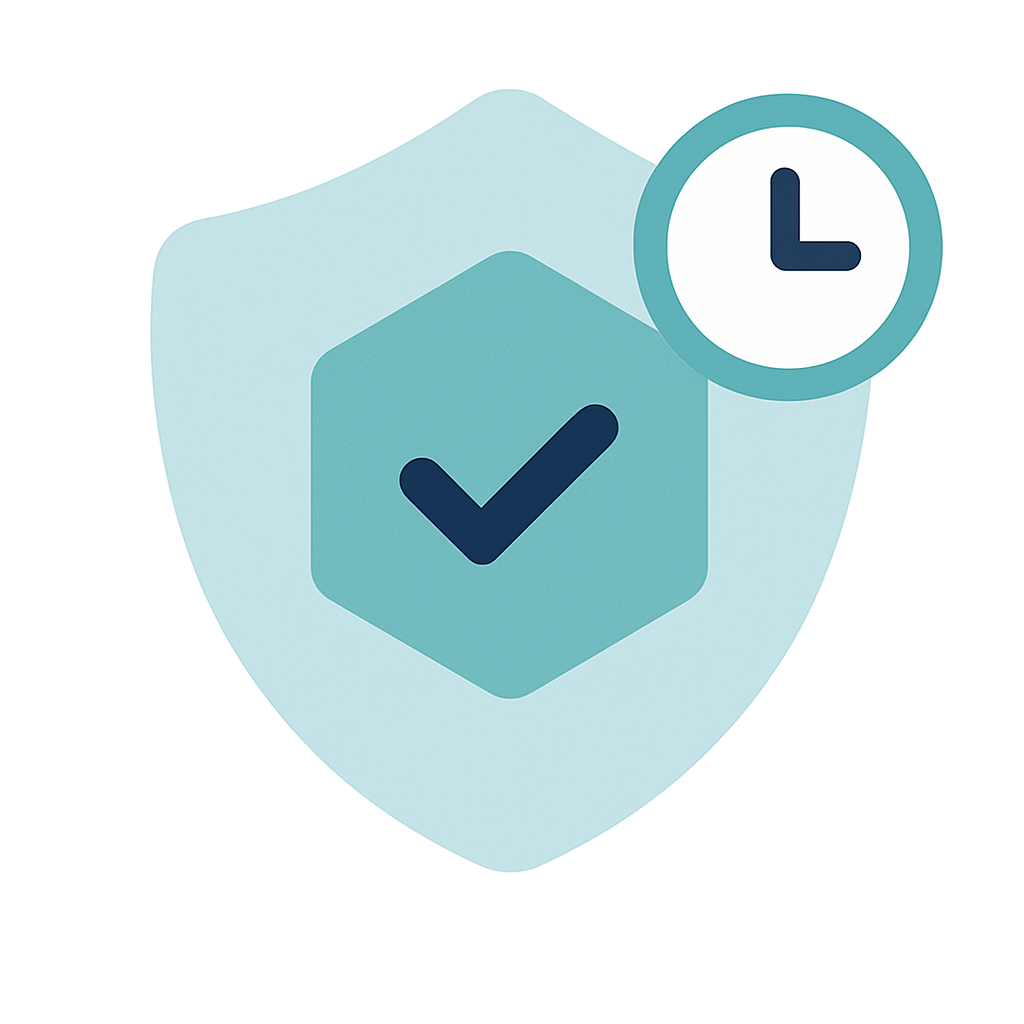
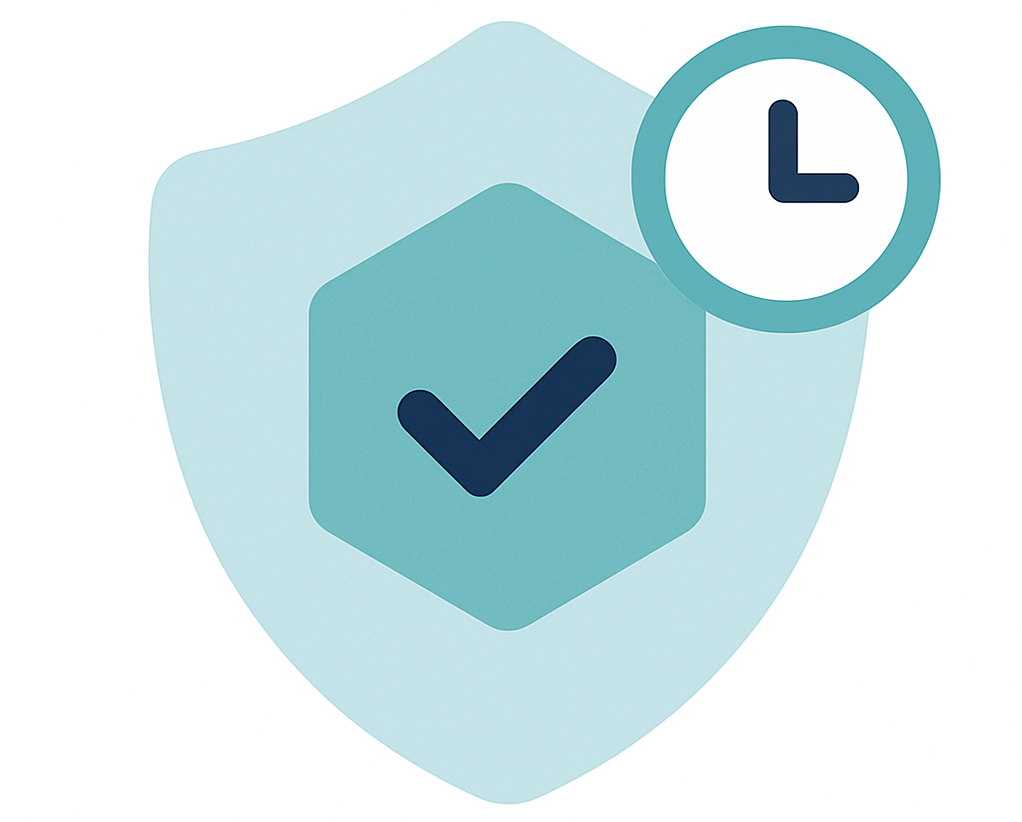
update

diff --git a/email_activation/mailchimp/email_activation.html b/email_activation/mailchimp/email_activation.html
@@ -56,13 +56,18 @@
             <tr>
               <td align="center" style="padding:0 20px;" mc:edit="body_block">
                 <p style="font-size:18px; color:#000; margin:0 0 16px 0; line-height:1.5; font-family:Arial, sans-serif;" mc:edit="line1">Thanks for joining YourBrand — we're thrilled to have you on board!</p>
-                <p style="font-size:18px; color:#000; margin:0 0 32px 0; line-height:1.5; font-family:Arial, sans-serif;" mc:edit="line2">Your account has been successfully created and is currently pending activation.</p>
               </td>
             </tr>
             <!-- Illustration -->
             <tr>
               <td align="center" style="padding:0 20px 24px 20px;" mc:edit="illustration_block">
-                <img src="https://raw.githubusercontent.com/IqraRafiq/email-template-pack/main/assets/images/email_activation.png" alt="Account activation illustration" width="350" style="display:block; margin:0 auto; max-width:100%; height:auto;">
+                <img src="https://raw.githubusercontent.com/IqraRafiq/email-template-pack/main/assets/images/email_activation.png" alt="Account activation illustration" width="220" style="display:block; margin:0 auto; max-width:100%; height:auto;">
+              </td>
+            </tr>
+            <!-- Post-Illustration Note -->
+            <tr>
+              <td align="center" style="padding:0 20px;" mc:edit="post_image_block">
+                <p style="font-size:18px; color:#000; margin:0 0 32px 0; line-height:1.5; font-family:Arial, sans-serif;" mc:edit="post_image_copy">Your account has been successfully created and is currently pending activation.</p>
               </td>
             </tr>
             <!-- CTA Button -->

diff --git a/email_activation/html/email_activation.html b/email_activation/html/email_activation.html
@@ -57,13 +57,18 @@
             <tr>
               <td align="center" style="padding:0 20px;">
                 <p style="font-size:18px; color:#000; margin:0 0 16px 0; line-height:1.5; font-family:Arial, sans-serif;">Thanks for joining YourBrand — we're thrilled to have you on board!</p>
-                <p style="font-size:18px; color:#000; margin:0 0 32px 0; line-height:1.5; font-family:Arial, sans-serif;">Your account has been successfully created and is currently pending activation.</p>
               </td>
             </tr>
             <!-- Illustration -->
             <tr>
               <td align="center" style="padding:0 20px 24px 20px;">
-                <img src="https://raw.githubusercontent.com/IqraRafiq/email-template-pack/main/assets/images/email_activation.png" alt="Account activation illustration" width="350" style="display:block; margin:0 auto; max-width:100%; height:auto;">
+                <img src="https://raw.githubusercontent.com/IqraRafiq/email-template-pack/main/assets/images/email_activation.png" alt="Account activation illustration" width="220" style="display:block; margin:0 auto; max-width:100%; height:auto;">
+              </td>
+            </tr>
+            <!-- Post-Illustration Note -->
+            <tr>
+              <td align="center" style="padding:0 20px;">
+                <p style="font-size:18px; color:#000; margin:0 0 32px 0; line-height:1.5; font-family:Arial, sans-serif;">Your account has been successfully created and is currently pending activation.</p>
               </td>
             </tr>
             <!-- CTA Button -->

diff --git a/email_activation/klaviyo/email_activation.html b/email_activation/klaviyo/email_activation.html
@@ -56,13 +56,18 @@
             <tr>
               <td align="center" style="padding:0 20px;">
                 <p style="font-size:18px; color:#000; margin:0 0 16px 0; line-height:1.5; font-family:Arial, sans-serif;">Thanks for joining YourBrand — we're thrilled to have you on board!</p>
-                <p style="font-size:18px; color:#000; margin:0 0 32px 0; line-height:1.5; font-family:Arial, sans-serif;">Your account has been successfully created and is currently pending activation.</p>
               </td>
             </tr>
             <!-- Illustration -->
             <tr>
               <td align="center" style="padding:0 20px 24px 20px;">
-                <img src="https://raw.githubusercontent.com/IqraRafiq/email-template-pack/main/assets/images/email_activation.png" alt="Account activation illustration" width="350" style="display:block; margin:0 auto; max-width:100%; height:auto;">
+                <img src="https://raw.githubusercontent.com/IqraRafiq/email-template-pack/main/assets/images/email_activation.png" alt="Account activation illustration" width="220" style="display:block; margin:0 auto; max-width:100%; height:auto;">
+              </td>
+            </tr>
+            <!-- Post-Illustration Note -->
+            <tr>
+              <td align="center" style="padding:0 20px;">
+                <p style="font-size:18px; color:#000; margin:0 0 32px 0; line-height:1.5; font-family:Arial, sans-serif;">Your account has been successfully created and is currently pending activation.</p>
               </td>
             </tr>
             <!-- CTA Button -->
